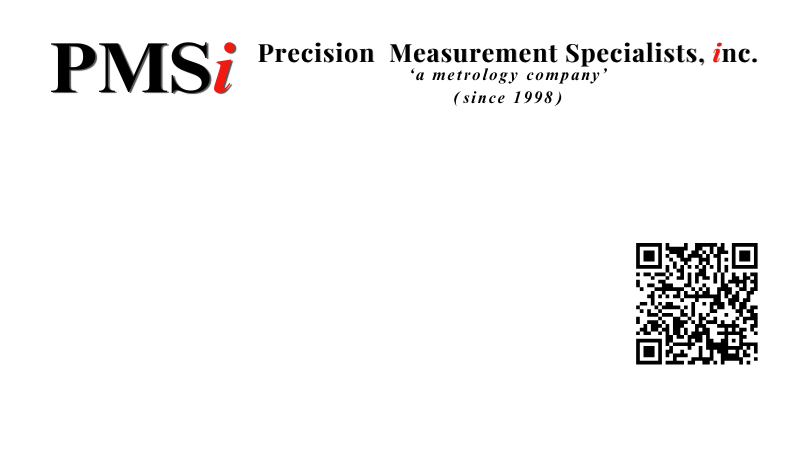
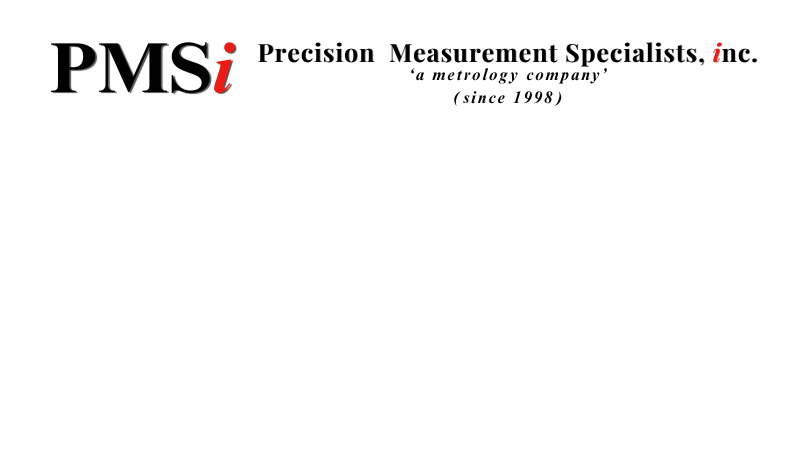
QR Added

Changed region(s): [[0.7716, 0.5289, 0.9568, 0.8089]]

diff --git a/resources/views/livewire/equipment-label.blade.php b/resources/views/livewire/equipment-label.blade.php
@@ -43,7 +43,7 @@
                             <hr class="border-t-[0.5px] border-gray-700">
                             <p class="text-[6px] mt-[0.5px] mb-1 font-bold text-gray-800">DCN 5-5.8.2-1 rev.1</p>
                         </div>
-                    </div>
+                        <img src="{{ asset('storage/qrcodes/equipment_' . $equipment['id'] . '.png') }}" alt="Your Image" class="absolute bottom-7 right-4 w-9 h-9">                    </div>
                 @endforeach
             </div>
             <div class="text-[10px] text-gray-500 text-center mt-2">
